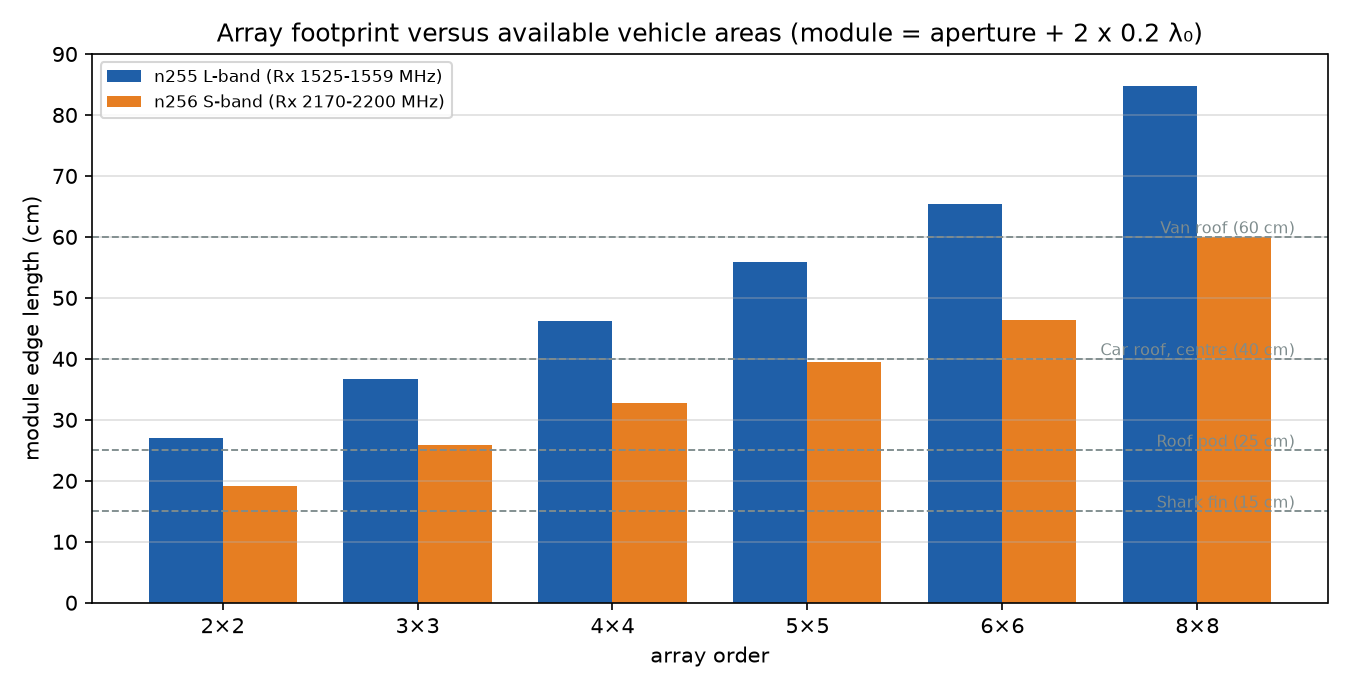
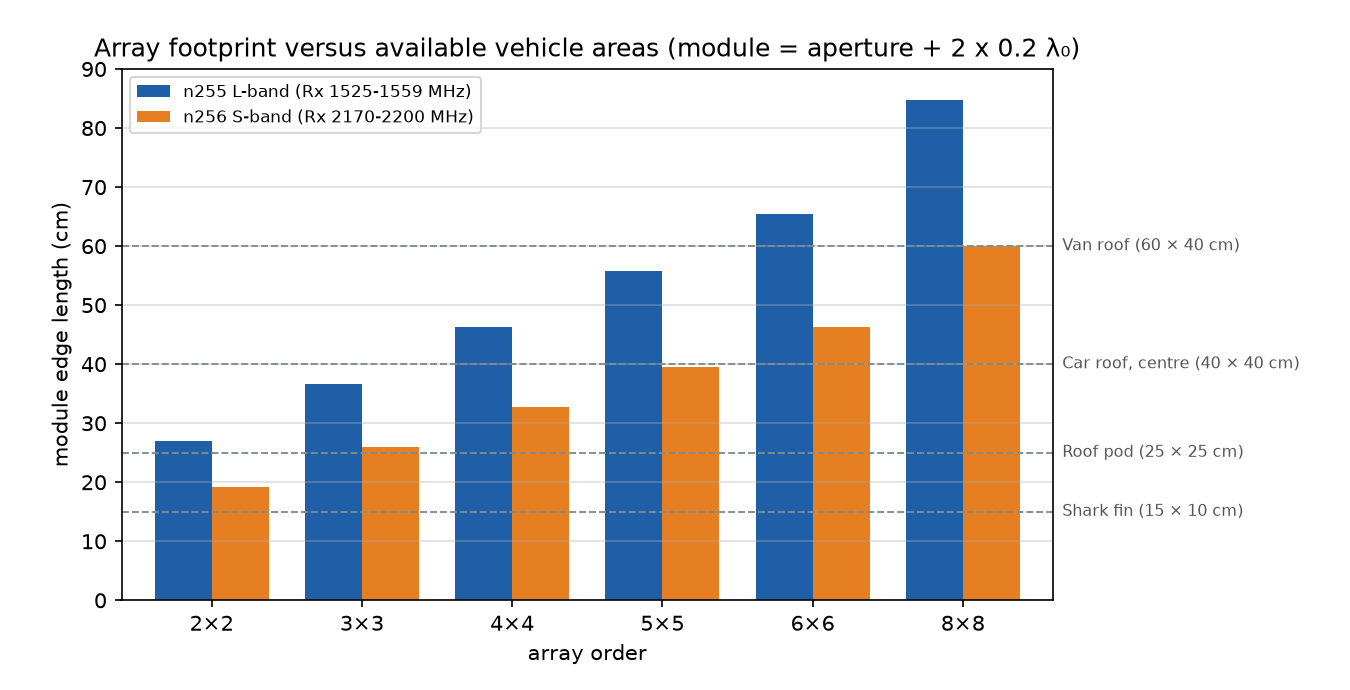
Footprint figure: move platform labels into the right margin

diff --git a/sizing.py b/sizing.py
@@ -103,8 +103,10 @@ def fig_footprints(bands, arrays) -> None:
     for name, width_m, depth_m in nm.PLATFORMS:
         h = max(width_m, depth_m) * 100.0
         ax.axhline(h, color=C_GRAY, lw=0.9, ls="--")
-        ax.text(len(n_orders) - 0.5, h + 0.6, f"{name} ({width_m*100:.0f} cm)",
-                fontsize=7.5, color=C_GRAY, ha="right")
+        ax.annotate(f"{name} ({width_m*100:.0f} × {depth_m*100:.0f} cm)",
+                    xy=(1.01, h), xycoords=("axes fraction", "data"),
+                    va="center", ha="left", fontsize=7.5, color="#555555")
+    ax.set_xlim(-0.6, len(n_orders) - 0.4)
     ax.set_xticks(x)
     ax.set_xticklabels([f"{n}×{n}" for n in n_orders])
     ax.set_xlabel("array order")
@@ -114,7 +116,7 @@ def fig_footprints(bands, arrays) -> None:
                  "(module = aperture + 2 x 0.2 λ₀)")
     ax.grid(True, axis="y", alpha=0.4)
     ax.legend(fontsize=8, loc="upper left")
-    fig.tight_layout()
+    fig.subplots_adjust(right=0.78, left=0.09, bottom=0.13, top=0.90)
     path = FIG / "fig02_footprints.png"
     fig.savefig(path)
     plt.close(fig)
